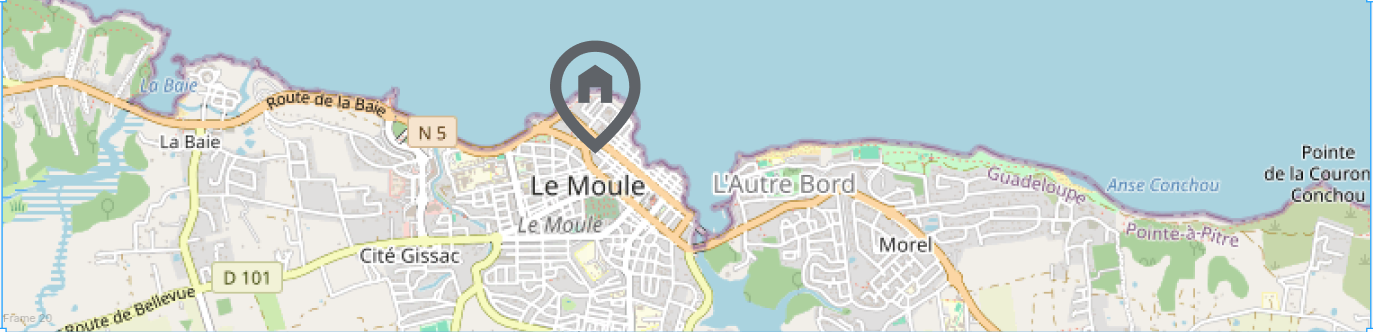
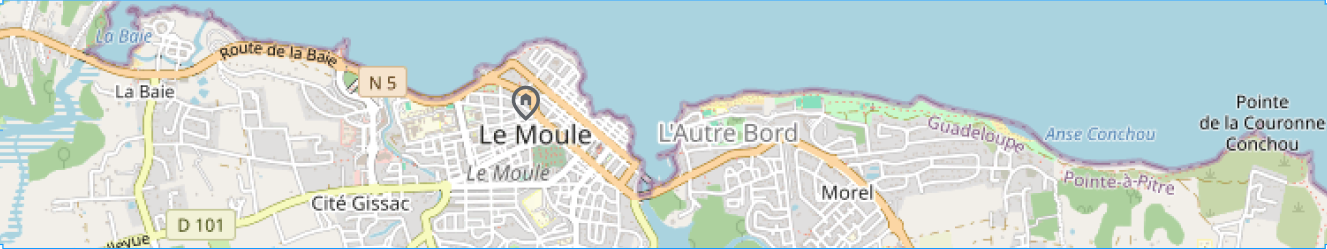
structure

diff --git a/src/app/page.js b/src/app/page.js
@@ -6,6 +6,8 @@ import Video from "@/components/ui/Video";
 
 
 export default function Home() {
+  const handleSubmit = (e) => {
+  };
   return (
     <div className={`${styles.page} `}>
       <section className={styles.landing}>
@@ -38,14 +40,14 @@ export default function Home() {
       <section className={styles.aboutSection}>
         <div className={styles.aboutContainer}>
           <div className={styles.aboutCarousel}>
-            <Image src="/about1.jpg" alt="About" fill={true} />
+            {/* <Image src="/about1.jpg" alt="About" fill={true} />
             <Image src="/about2.jpg" alt="About" fill={true} />
-            <Image src="/about3.jpg" alt="About" fill={true} />
+            <Image src="/about3.jpg" alt="About" fill={true} /> */}
           </div>
           <div className={styles.aboutTextContainer}>
             <div className={styles.aboutText}>
               <p>
-              Bienvenue à la Villa des K’ribean, une retraite d'exception au cœur d'un environnement paisible. Nos deux chambres, la salle de bain moderne et le jardin vous garantissent tout le confort nécessaire pour un séjour mémorable. Notre villa allie avec finesse élégance et praticité, offrant un espace bien aménagé où chaque détail est conçu pour votre bien-être. Venez explorer notre havre de paix, où le confort contemporain et la chaleur humaine se combinent pour offrir une expérience d'hébergement inoubliable.
+              Bienvenue à la Villa des K'ribean, une retraite d'exception au cœur d'un environnement paisible. Nos deux chambres, la salle de bain moderne et le jardin vous garantissent tout le confort nécessaire pour un séjour mémorable. Notre villa allie avec finesse élégance et praticité, offrant un espace bien aménagé où chaque détail est conçu pour votre bien-être. Venez explorer notre havre de paix, où le confort contemporain et la chaleur humaine se combinent pour offrir une expérience d'hébergement inoubliable.
               </p>
             </div>
             <div className={styles.cardContainer}>
@@ -179,6 +181,90 @@ export default function Home() {
           
         </div>
 
+      </section>
+      <section className={styles.decouverteSection}> 
+        <div className={styles.decouverteContainer}>
+          <div className={styles.decouverteTitle}>
+            <h2>DÉTENTE</h2>
+          </div>
+          <div className={styles.decouverteContent}>
+            <div className={styles.decouverteImage}>
+                <Image src="/beach.jpg" alt="About" fill={true} />
+            </div>
+            <div className={styles.decouverteText}>
+              <p>
+              LA POINTE DES CHATEAUX
+              <br />
+              DISTANCE : 25KM
+              <br />
+              Si vous voulez admirer un lever de soleil, c'est l'endroit idéal. 
+              <br />
+              Attention, le soleil se lève très tôt ici !
+              </p>
+            </div>
+          </div>
+        </div>
+        <div className={styles.aventureSection}>
+          <div className={styles.aventureTitle}>
+            <h2>AVENTURE</h2>
+          </div>
+          <div className={styles.aventureContent}>
+            <div className={styles.aventureImage}>
+              <Image src="/aventure.jpg" alt="About" fill={true} />
+            </div>
+            <div className={styles.aventureText}>
+              <p>
+                LA POINTE DES CHATEAUX
+                <br />
+                DISTANCE : 25KM
+                <br />
+                Si vous voulez admirer un lever de soleil, c'est l'endroit idéal. 
+                <br />
+                Attention, le soleil se lève très tôt ici !
+              </p>
+            </div>
+          </div>
+        </div>
+        <div className={styles.decouverteContainer}>
+          <div className={styles.decouverteTitle}>
+            <h2>DÉCOUVERTE</h2>
+          </div>
+          <div className={styles.decouverteContent}>
+            <div className={styles.decouverteImage}>
+                <Image src="/decouverte.jpg" alt="About" fill={true} />
+            </div>
+            <div className={styles.decouverteText}>
+              <p>
+              LA POINTE DES CHATEAUX
+              <br />
+              DISTANCE : 25KM
+              <br />
+              Si vous voulez admirer un l ever de soleil, c'est l'endroit idéal. 
+              <br />
+              Attention, le soleil se lève très tôt ici !
+              </p>
+            </div>
+          </div>
+        </div>
+        
+      </section>
+      <section className={styles.contactSection} id="contact">
+        <div className={styles.contactContainer}>
+          <h2>CONTACTEZ-NOUS</h2>
+          <p>
+            Nous sommes à votre écoute pour toute question ou demande. Contactez-nous par mail à <a href="mailto:contact@villedeskribean.com">contact@villedeskribean.com</a>
+          </p>
+
+          {/* <div className={styles.contactForm}>
+            <form>
+              <input type="text" placeholder="Nom" />
+              <input type="email" placeholder="Email" />
+              <textarea placeholder="Message"  />
+              <button type="submit" onClick={handleSubmit}>Envoyer</button>
+            </form>
+          </div>
+          */}
+        </div>
       </section>
     </div>
   );

diff --git a/src/app/page.module.css b/src/app/page.module.css
@@ -233,10 +233,10 @@
 .locationSection {
   display: flex;
   flex-direction: column;
-  align-items: center;
-  justify-content: center;
+  align-items: start;
+  justify-content: start;
   width: 100vw;
-  height: 40vh;
+  height: 30vh;
   margin-top: 2rem;
 }
 
@@ -246,11 +246,188 @@
   width: 100%;
   height: 100%;
   position: relative;
-  background-color: red;
+  overflow: hidden;
 }
 
 .locationContainer img {
   object-fit: cover;
-
+  object-position: center 20%;
+  
 }
 
+.decouverteSection {
+  font-size: 24px;
+  color: rgb(255, 255, 255);
+  display: flex;
+  flex-direction: column;
+  align-items: center;
+  justify-content: center;
+  width: 100vw;
+  height: 170vh;
+  background-color: rgba(209, 187, 168, 1);
+  position: relative;
+  gap: 5rem;
+}
+
+.decouverteContainer {
+  display: flex;
+  flex-direction: column;
+  align-items: start;
+  justify-content: start;
+  position: relative;
+  height: 50%;
+  width: 100%;
+}
+
+.decouverteTitle {
+  position: relative;
+  top: 10rem;
+  left: 0;
+  margin-left: 15rem;
+  top:35%;
+  z-index: 3;
+}
+
+.decouverteTitle h2 {
+  font-size: 112px;
+  font-weight: 400;
+  text-shadow: 0 0 10px rgba(0, 0, 0, 0.1);
+  text-align: left;
+}
+
+.decouverteContent {
+  display: flex;
+  flex-direction: row;
+  align-items: center;
+  justify-content: space-between;
+  width: 100%;
+  height: 100%;
+}
+
+.decouverteImage {
+  width: 320px;
+  height: 320px;
+  border-radius: 50%;
+  position: relative;
+  overflow: hidden;
+  margin-left: 10rem;
+}
+
+.decouverteImage img {
+  object-fit: cover;
+  object-position: center 20%;
+}
+
+.decouverteText {
+  display: flex;
+  flex-direction: column;
+  align-items: center;
+  justify-content: center;
+
+  width: 50%;
+  height: 50%;
+  margin-right: 10rem;
+  /* font-size: 20px; */
+  font-weight: 400;
+  color: rgb(0, 0, 0);
+  text-align: right;
+}
+
+.aventureSection {
+  display: flex;
+  flex-direction: column;
+  align-items: end;
+  justify-content: start;
+  position: relative;
+  height: 50%;
+  width: 100%;
+}
+
+.aventureTitle {
+  position: relative;
+  top: 35%;
+  margin-right: 15rem;
+  z-index: 3;
+
+}
+.aventureTitle h2 {
+  font-size: 112px;
+  font-weight: 400;
+  text-shadow: 0 0 10px rgba(0, 0, 0, 0.1);
+}
+.aventureContent {
+  display: flex;
+  flex-direction: row-reverse;
+  align-items: center;
+  justify-content: space-between;
+  position: relative;
+  width: 100%;
+  height: 100%;
+  padding-left: 10rem;
+  padding-right: 10rem;
+} 
+
+.aventureImage {
+  width: 320px;
+  height: 320px;
+  border-radius: 50%;
+  position: relative;
+  overflow: hidden;
+  margin-right: 10rem;
+}
+
+.aventureImage img {
+  object-fit: cover;
+  object-position: center 20%;
+}
+
+.aventureText {
+  text-align: left;
+  width: 50%;
+  /* font-size: 18px; */
+  font-weight: 400;
+  color: rgb(0, 0, 0);
+  margin-left: 10rem;
+  
+}
+
+.contactSection {
+  display: flex;
+  flex-direction: column;
+  align-items: start;
+  justify-content: start;
+  width: 100vw;
+  height: 50vh;
+  background-color:rgba(209, 187, 168, 0.47);
+  position: relative;
+  gap: 5rem;
+}
+
+.contactContainer {
+  display: flex;
+  flex-direction: column;
+  align-items: start;
+  justify-content: start;
+  width: 100%;
+  height: 100%;
+  padding-left: 10rem;
+  padding-top: 5rem;
+}
+
+.contactContainer h2 {
+  font-size: 112px;
+  font-weight: 400;
+
+  text-align: left;
+}
+.contactContainer p {
+  font-size: 30px;
+  font-weight: 400;
+  color: rgb(0, 0, 0);
+  text-align: left;
+}
+
+.contactContainer a {
+  color: rgb(0, 0, 0);
+  font-weight: 600;
+}
